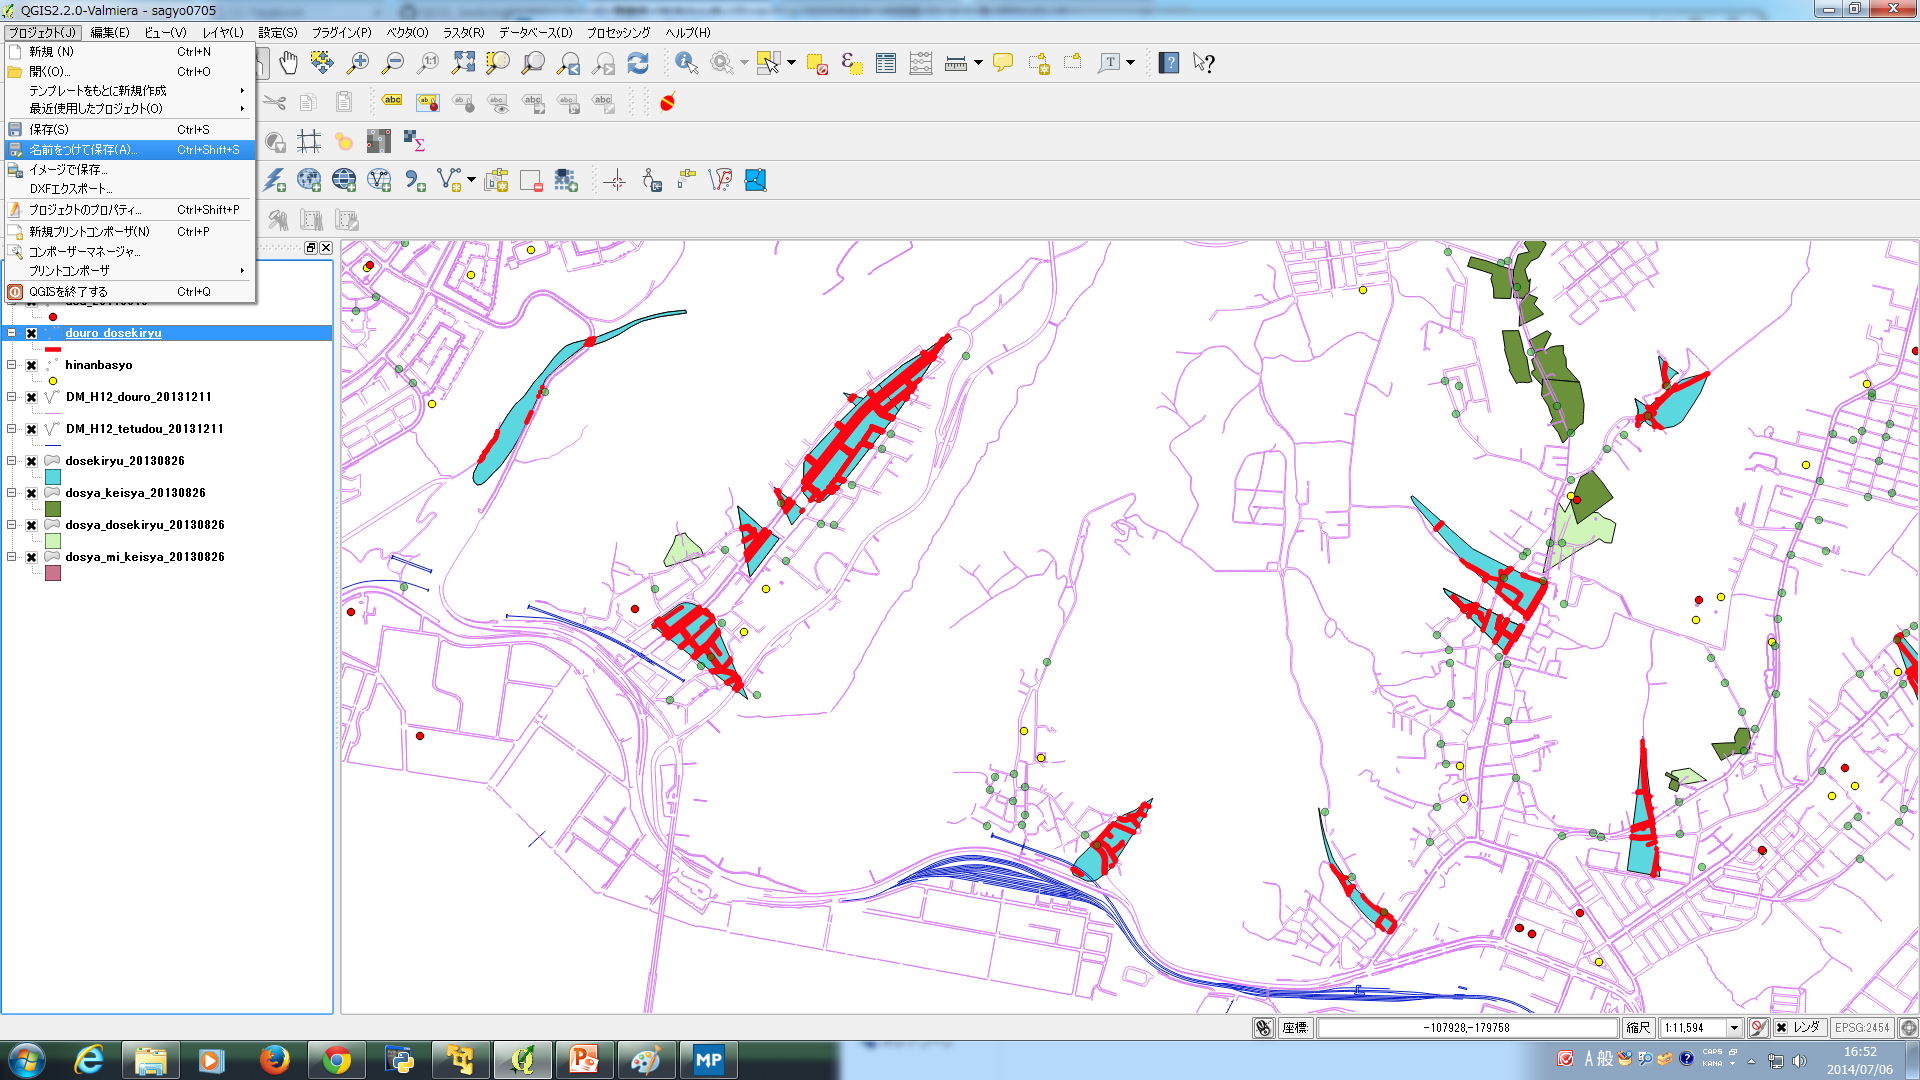
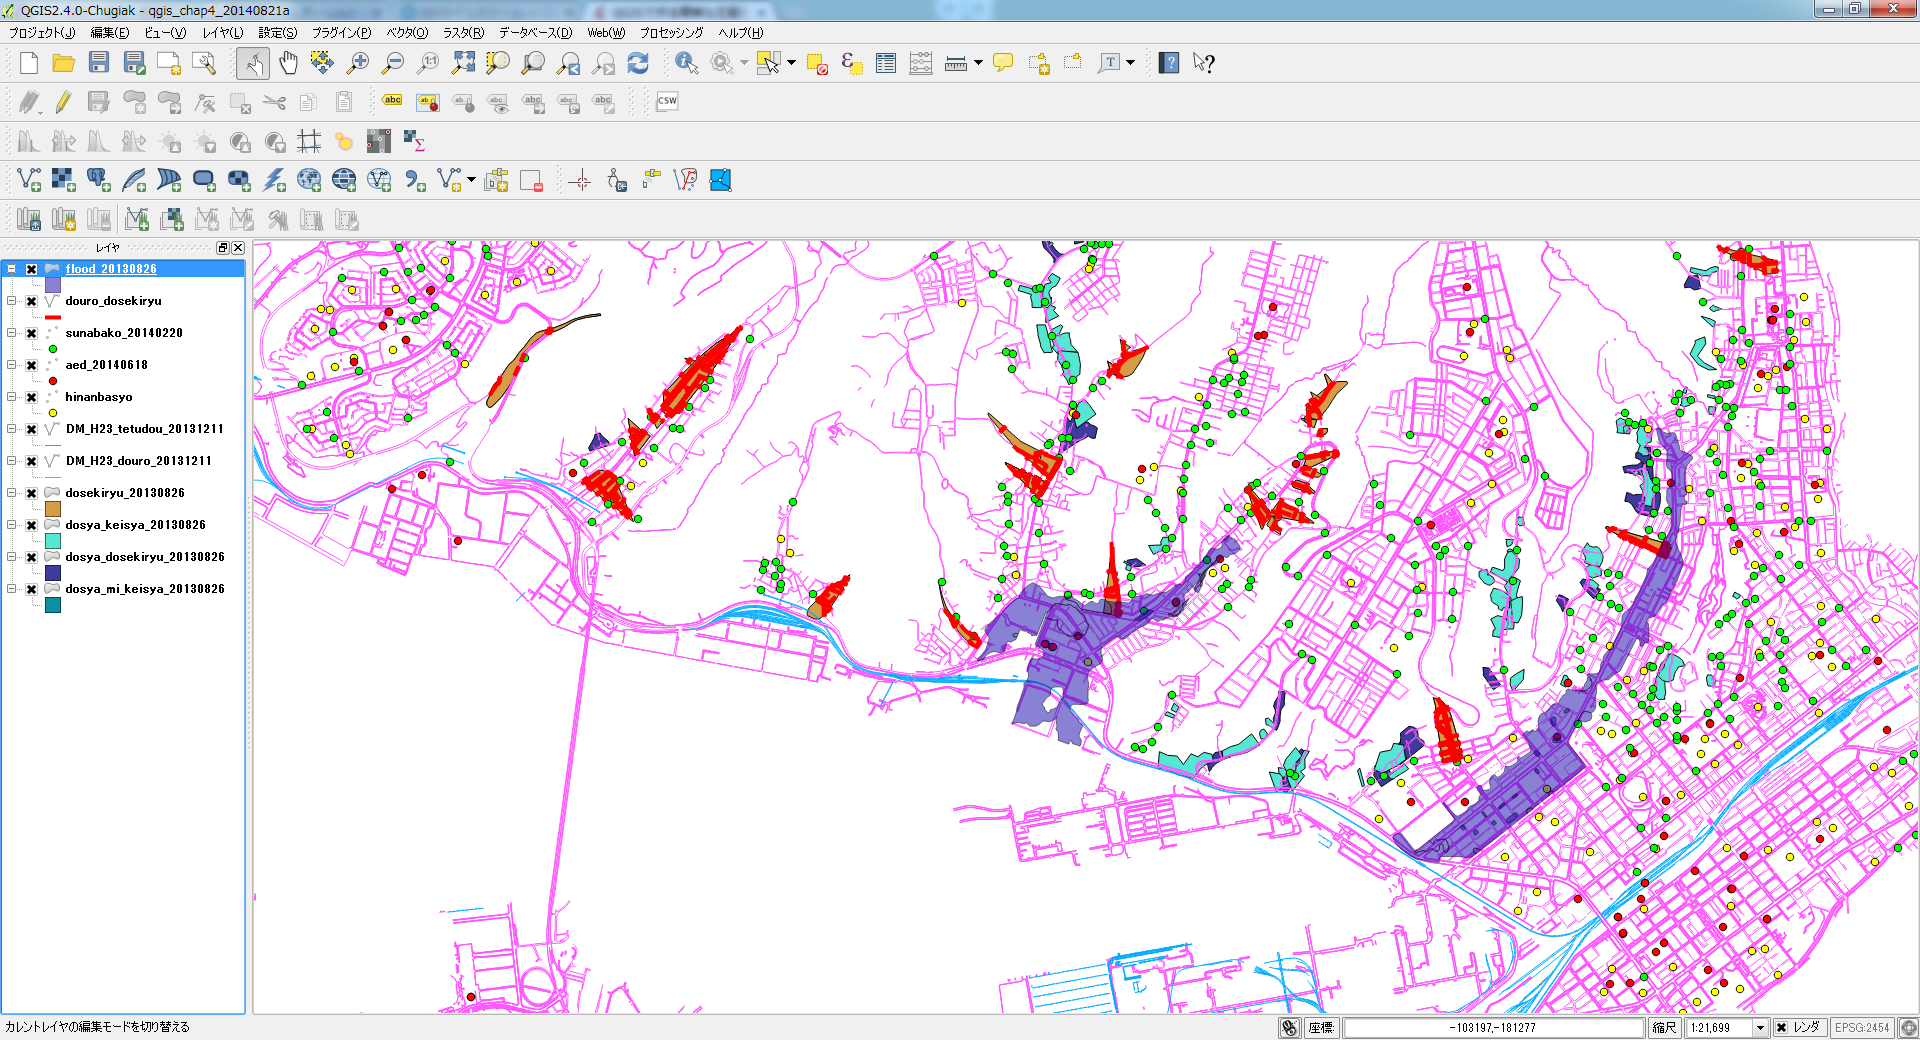
4-1.md追記
浸水深に関して、色相別分解した。

diff --git a/4/4-1.md b/4/4-1.md
@@ -132,7 +132,7 @@ OKボタンを押すと、新規シェープファイルの作成が始まりま
 ![新規shpファイル作成](img/4-1-13.png).
 
 
-新規に作成した、douro_dosekityu.shpを新たに追加してみましょう。
+新規に作成した、douro_dosekityu.shpを新たに追加してみます。
 
 図15
 ![土石流被災道路](img/4-1-14.png).
@@ -140,15 +140,47 @@ OKボタンを押すと、新規シェープファイルの作成が始まりま
 図中の赤線部分の道路は、土石流の危険地域と重複する道路であることが分かるかと思います。
 
 
-//保存に関しては、既に記載済みのようなので、朝日さんからの指摘通りに冠水区域の演算処理を書こうかと思います。
-//ただ、データセットがS-JISで文字化け対応に追われています。
+次に、浸水深のデータを読み込み、深さ毎に色分けを行います。
 
-### 4.保存
+- flood_20130826.shp
 
-コントロールパネルの保存から、名前を付けて保存を実行してください。
+を読み込んでください。
 
-![poly8](img/4-1-15.png).
+図16
+![浸水深](img/4-1-15.png).
 
-名前を付けて保存する際に[保存する時の名前].qgsというファイルネームで保存されます。データまでのパスや座標系などの定義が記述されていますが、これはデータそのものを持っていません。そのため、この.qgsファイルだけを渡しても共同編集等は行えないことや、異なるPCで参照した際にデータの格納場所が異なると参照できない場合が多いので、注意してください。
+レイヤパネルで右クリックを行い【プロパティ】を選択してください。
+図17
+![浸水深さプロパティ](img/4-1-16.png).
 
-![poly9](img/4-1-16.png).
+レイヤプロパティウィンドウが開くので、図18『共通シンボル』をクリックし、図19『分類された』に変更してください。
+図18
+![浸水深さプロパティ_共通シンボル](img/4-1-17.png).
+図19
+![浸水深さプロパティ_分類された](img/4-1-18.png).
+
+基本的に単一の指標を色相別に分解して表示する場合は、単一の色階調を選択してください。今回は、Bluesを選択しました。
+図20
+![色階調](img/4-1-19.png).
+
+『分類』をクリックすると、図21の様に水深によって色分けされます。
+図21
+![色階調](img/4-1-20.png).
+
+『OK』をクリックします。
+読み込んだ水深のデータが水深別に色分けされ、地図ビューに反映され図22のようになります。
+
+![色階調](img/4-1-21.png).
+
+なお、国土交通省 国土技術政策総合研究所の発表では、浸水深の目安を以下のように発表しています。
+
+|浸水深|浸水程度の目安|
+|:----|:----|
+|0～0.5m|大人の膝までつかる（床下浸水）|
+|0.5～1.0m|大人の顔までつかる（床上浸水）|
+|1.0～2.0m|1階の軒下まで浸水する|
+|2.0～5.0m|2階の軒下まで浸水する|
+|5.0m以上|2階の屋根以上が浸水する|
+
+国土交通省 国土技術政策総合研究所
+- http://www.nilim.go.jp/lab/rcg/newhp/yougo/words/043/html/043_main.html
